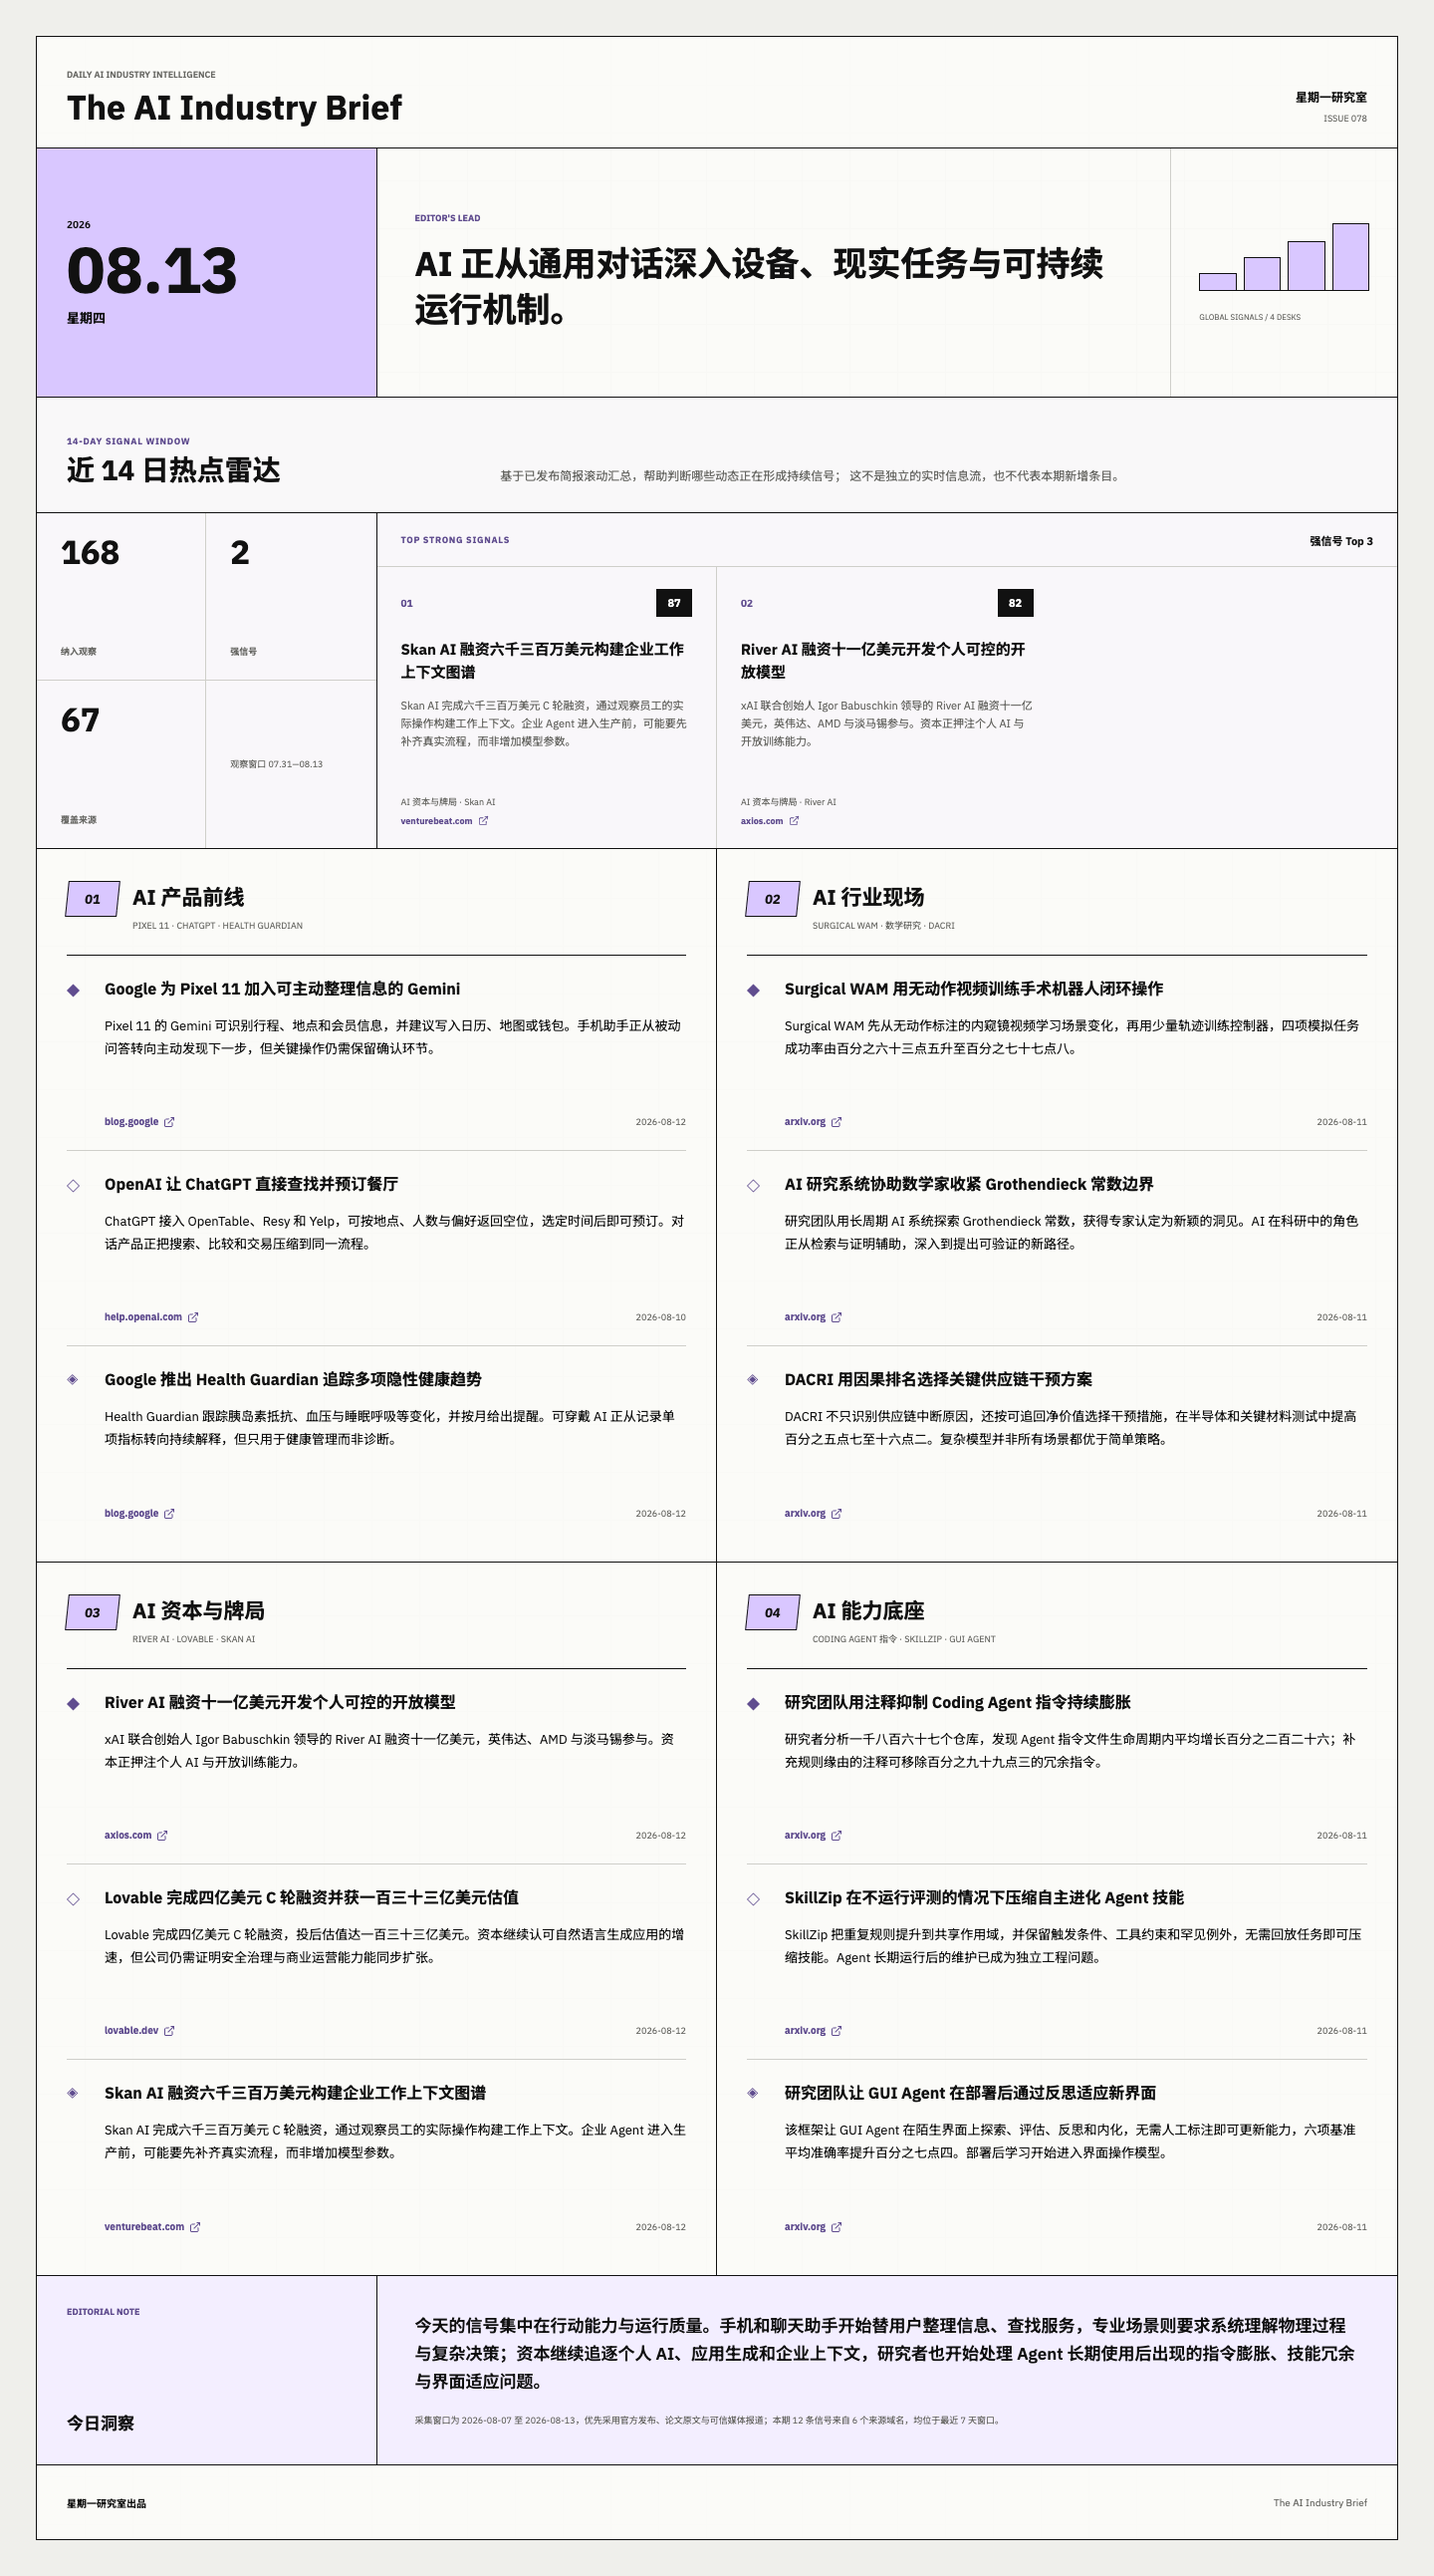
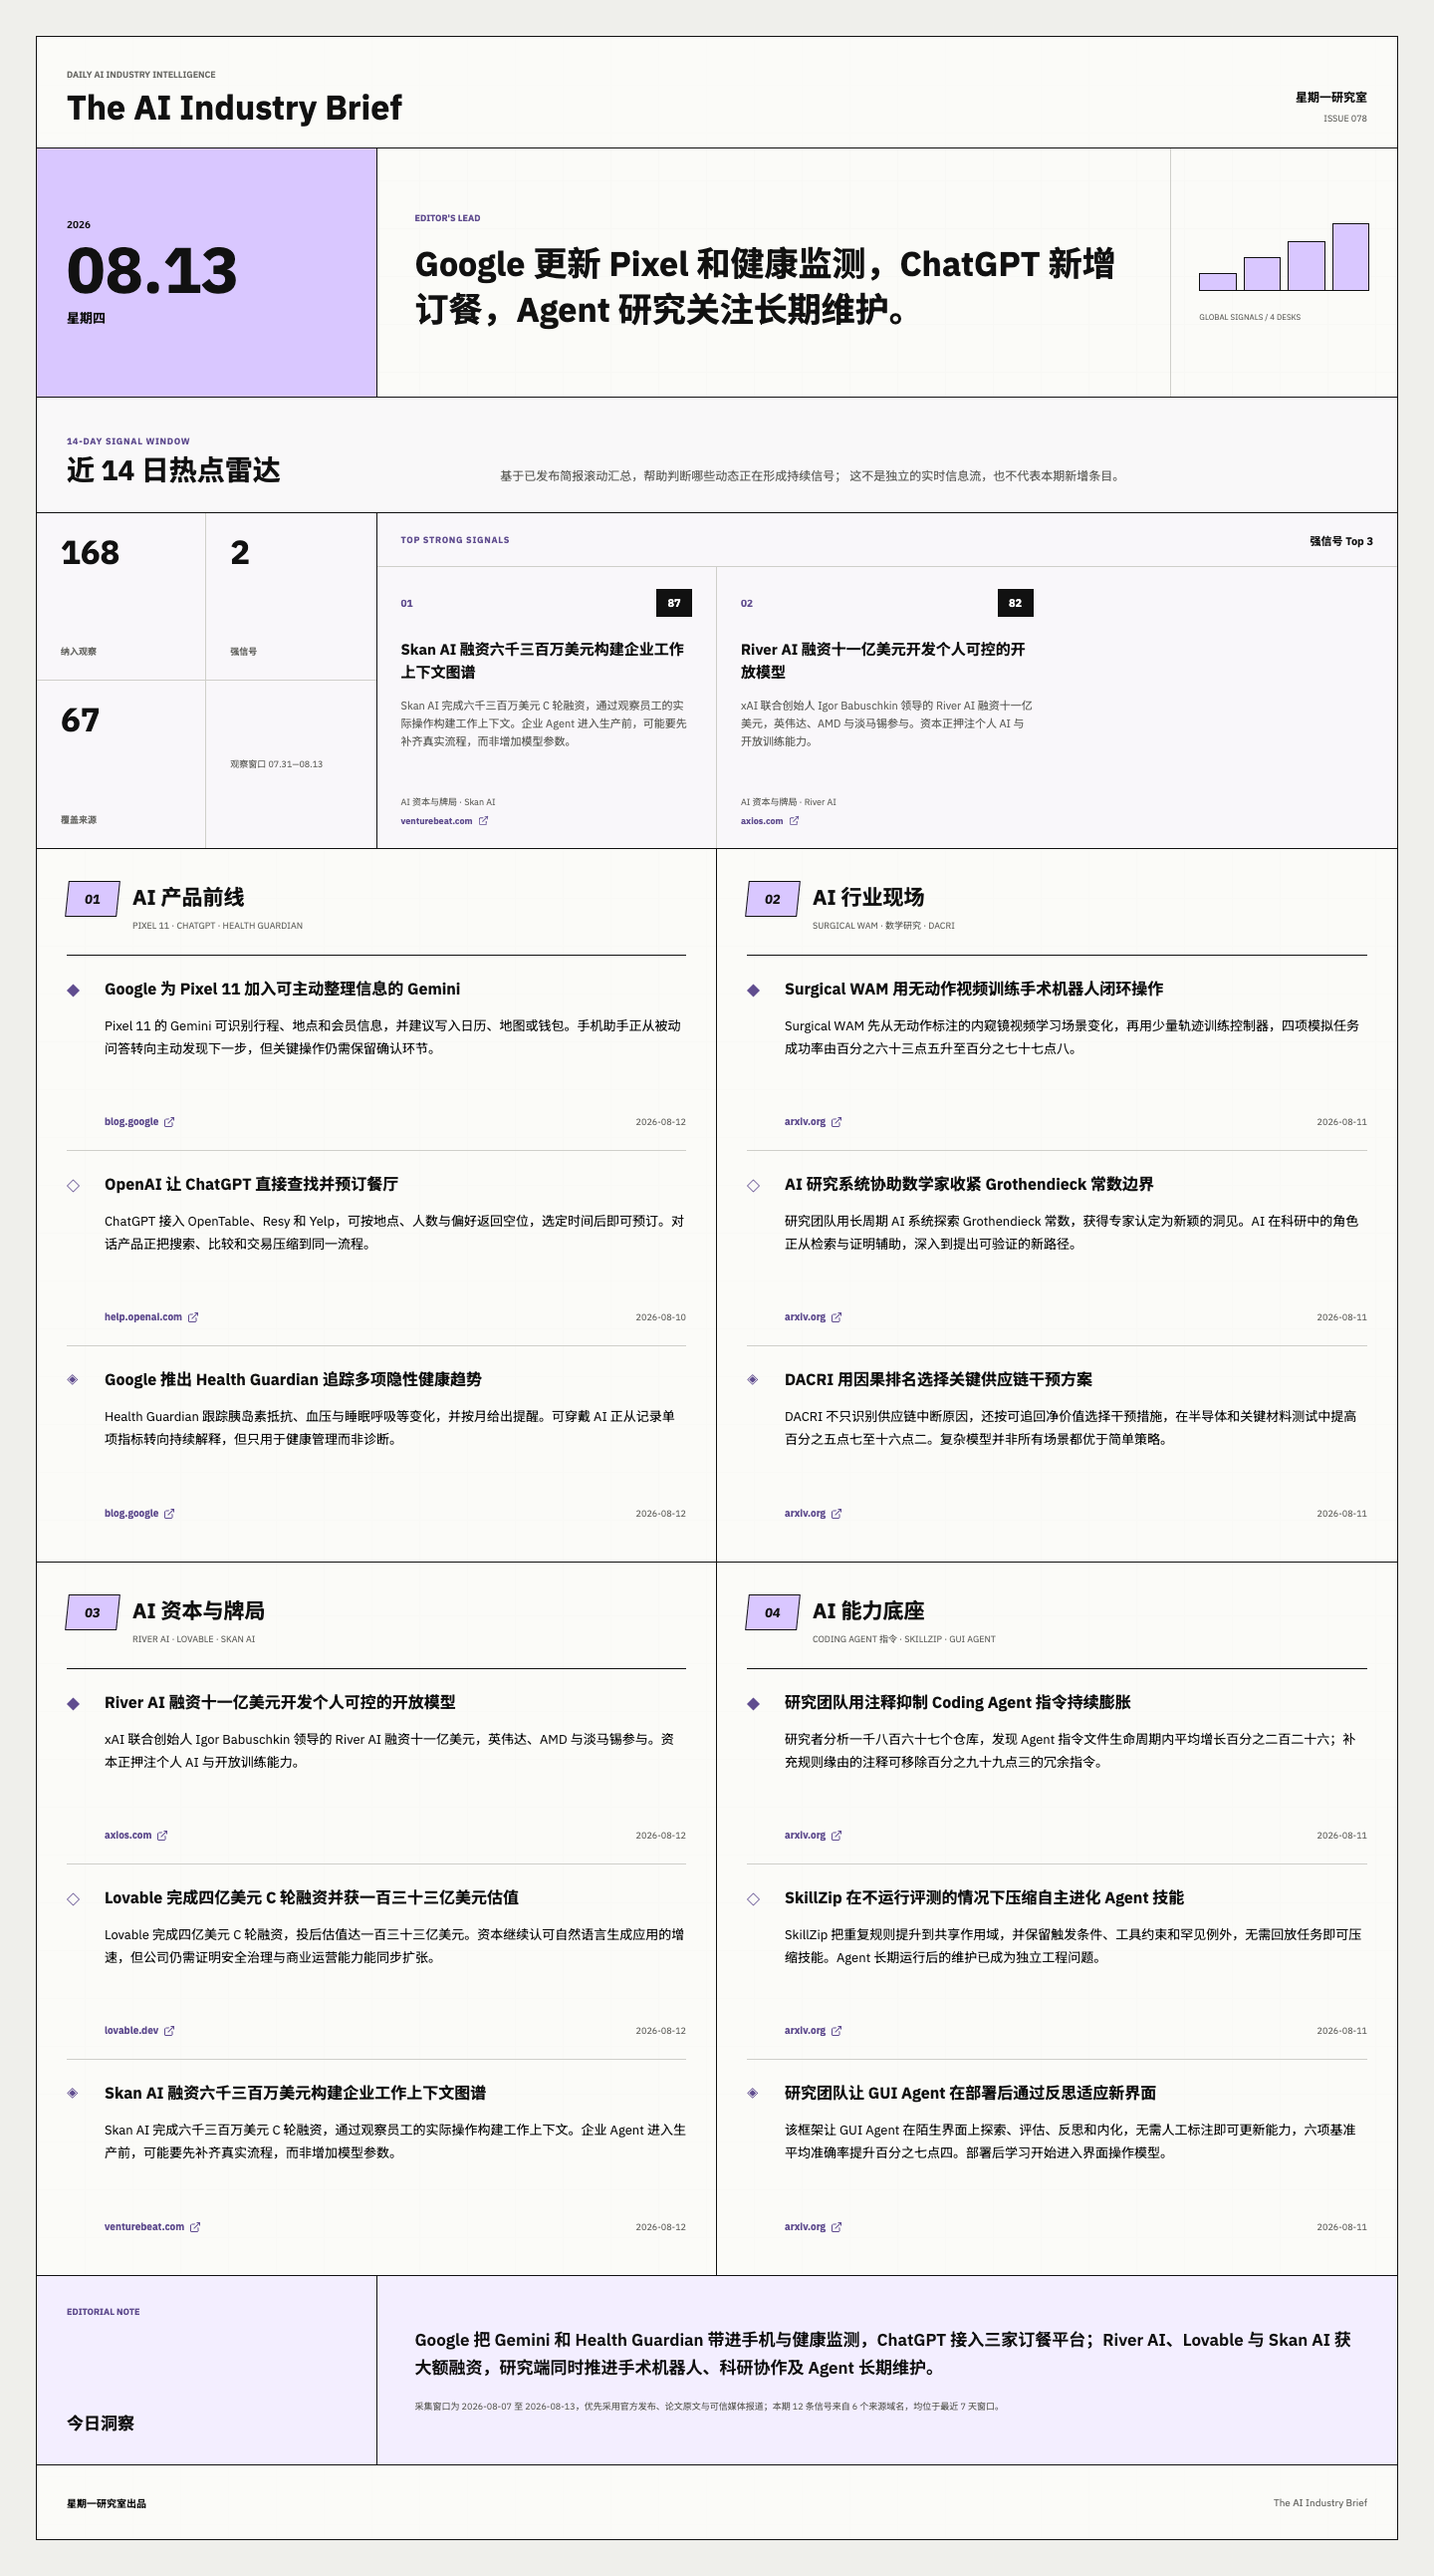
优化每日简报事件摘要规则

Changed region(s): [[0.2812, 0.8975, 0.9375, 0.9594], [0.2812, 0.0928, 0.7812, 0.1238]]

diff --git a/briefs/2026-08-13.html b/briefs/2026-08-13.html
@@ -4,7 +4,7 @@
   <meta charset="UTF-8">
   <meta name="viewport" content="width=device-width, initial-scale=1.0">
   <meta name="robots" content="noindex">
-  <meta name="description" content="AI 正从通用对话深入设备、现实任务与可持续运行机制。">
+  <meta name="description" content="Google 更新 Pixel 和健康监测，ChatGPT 新增订餐，Agent 研究关注长期维护。">
   <meta http-equiv="refresh" content="0; url=../reader.html?date=2026-08-13">
   <link rel="canonical" href="../reader.html?date=2026-08-13">
   <title>The AI Industry Brief | 08/13 · 星期四 | 星期一研究室</title>
@@ -17,7 +17,7 @@
     <div class="brand">The AI Industry Brief</div>
     <div class="lab">星期一研究室</div>
     <div class="date">08/13 · 星期四</div>
-    <h1>AI 正从通用对话深入设备、现实任务与可持续运行机制。</h1>
+    <h1>Google 更新 Pixel 和健康监测，ChatGPT 新增订餐，Agent 研究关注长期维护。</h1>
     <p>正在打开新版简报阅读器。<a href="../reader.html?date=2026-08-13">继续阅读</a></p>
     <footer class="footer"><div class="footer-lab">星期一研究室出品</div><div class="footer-sub">The AI Industry Brief</div></footer>
   </main>

diff --git a/skills/ai-industry-brief/scripts/render-brief.js b/skills/ai-industry-brief/scripts/render-brief.js
@@ -29,6 +29,10 @@ function formatMd(date) {
 function validateBrief(data, targetDate) {
   if (data.date !== targetDate) fail(`Data date ${data.date} does not match ${targetDate}.`);
   if (!data.weekday || !data.opening || !data.insight || !data.methodNote) fail("Brief metadata is incomplete.");
+  if ([...data.opening].length > 50) fail("Brief opening must not exceed 50 characters.");
+  if (/^AI\s*(?:正从|开始|进入|转向|走向|的竞争)/i.test(data.opening)) {
+    fail("Brief opening uses a generic AI-stage template; summarize today's concrete actors and events instead.");
+  }
   if (!Array.isArray(data.sections) || data.sections.length !== 4) fail("Brief must contain exactly four sections.");
   const items = data.sections.flatMap((section) => section.items || []);
   if (items.length !== 12) fail("Brief must contain exactly twelve items.");

diff --git a/index.html b/index.html
@@ -455,7 +455,7 @@
                 <time class="sheet-state" datetime="2026-08-13">08/13 · 星期四</time>
               </div>
               <h2 id="brief-route-title">今日简报</h2>
-              <p class="sheet-summary" id="brief-route-summary">AI 开始补齐真实行动与长期运行能力</p>
+              <p class="sheet-summary" id="brief-route-summary">Pixel 与 ChatGPT 把 AI 接入更多生活任务</p>
               <div class="sheet-foot">
                 <div class="sheet-meta"><span>12 条精选信号</span><span>08/13 更新</span><span>含近 14 日热点雷达</span></div>
                 <span class="sheet-cta">阅读今日简报<span class="sheet-cta-icon"><img src="assets/icons/arrow-right.svg" alt=""></span></span>

diff --git a/skills/ai-industry-brief/references/brief-spec.md b/skills/ai-industry-brief/references/brief-spec.md
@@ -119,8 +119,9 @@
 - 数据标题直接使用完整可见标题，不再用 `|` 做内部结构分隔。标题必须能像一句短新闻单独读通，结构为“公司/产品 + 明确谓语动词 + 对象”，例如 `OpenAI 发布 GPT-5.5 模型`、`ModelCop 发布 Agent 身份安全平台`。
 - 核心动作短语必须保留清晰谓语，优先使用 `发布`、`推出`、`融资建设`、`开源`、`收购`、`接入`、`增加`、`提出`、`测试`、`部署` 等动词；避免 `获投做...`、`...上架`、`...提效`、`...进执行流`、`训练场`、`控制面` 这类需要读者二次解释的名词化或内部判断词。
 - 描述格式：先写事实，再写意义或影响；目标长度 60-80 个中文字符。
-- 今日一句话：一句明确判断，不超过 50 个中文字符。
-- 今日洞察：综合多个栏目，不超过 150 个中文字符；避免“持续关注”“值得期待”这类虚浮收尾。
+- 今日一句话：一句当天事件摘要，不超过 50 个中文字符；至少点出 2 个具体主体、产品或事件并保留事实动词，优先覆盖 2 个不同栏目。它要回答“今天发生了什么”，不能默认写成产业阶段判断。
+- 今日一句话禁用高频模板开头：`AI 正从`、`AI 开始`、`AI 进入`、`AI 转向`、`AI 走向`、`AI 的竞争`。除非当天新闻本身明确构成这种变化，否则不要使用“从 A 到 B”“正在重写”“进入新阶段”等万能句式。发布前必须与最近 7 期比较句法骨架，重复时改写为公司、产品、融资或研究动作。
+- 今日洞察：综合多个栏目，不超过 150 个中文字符；先复述开场未覆盖的关键事实，再给出主编判断，避免“持续关注”“值得期待”或“AI 又进入某阶段”这类虚浮收尾。
 
 ## 品牌规则
 

diff --git a/skills/ai-industry-brief/SKILL.md b/skills/ai-industry-brief/SKILL.md
@@ -60,10 +60,12 @@ npx skills add mondaylab/ai-industry-brief -y -g
 
 ## 写作
 
-1. 写一句明确判断式开场，控制在 50 个中文字符以内。
+1. 开场先回答“今天具体发生了什么”，控制在 50 个中文字符以内。必须点出至少 2 个当天主体、产品或事件，并使用 `发布`、`接入`、`融资`、`开源`、`更新`、`上线` 等事实动词；尽量覆盖 2 个不同栏目。
+   - 开场是事件摘要，不是每天重复的产业阶段判断。默认禁止以 `AI 正从`、`AI 开始`、`AI 进入`、`AI 转向`、`AI 走向`、`AI 的竞争` 开头，也避免反复使用“从 A 到 B”“正在重写”“进入新阶段”等万能句式。
+   - 写完后对比最近 7 期开场；如果句法骨架或抽象名词高度相似，改为当天公司、产品、融资或研究动作。示例：`Google 更新 Pixel 和健康监测，ChatGPT 新增订餐，Agent 研究关注长期维护。`
 2. 12 条动态都写成可独立读懂的完整短新闻句，使用“公司/产品 + 明确谓语动词 + 对象”结构，不使用 `|` 分隔主语和动作。
 3. 每条描述先写事实，再写行业影响，长度约 60-80 个中文字符。
-4. 写一段跨栏目洞察，控制在 150 个中文字符以内，必须有明确判断，避免模糊套话。
+4. 写一段跨栏目洞察，控制在 150 个中文字符以内。先补充开场未展开的具体事件，再说明这些事件共同意味着什么；避免模糊套话和只描述“AI 又进入某阶段”。
 
 ## 构建
 
